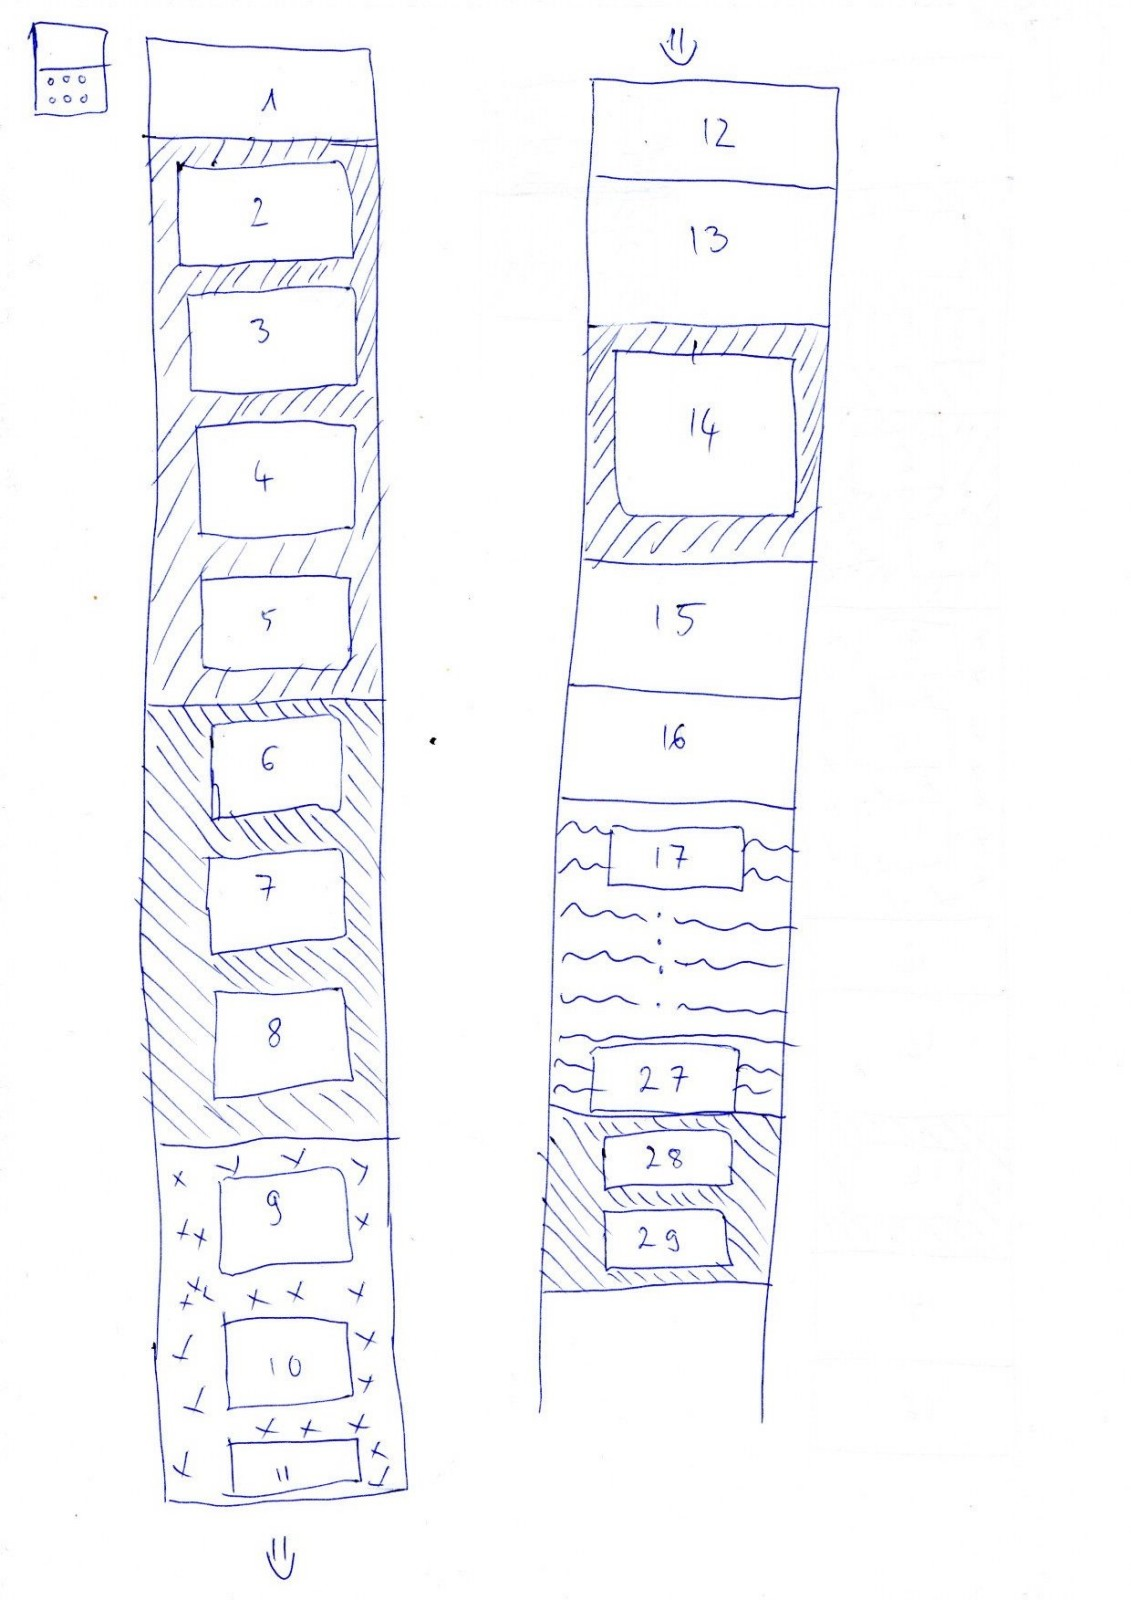
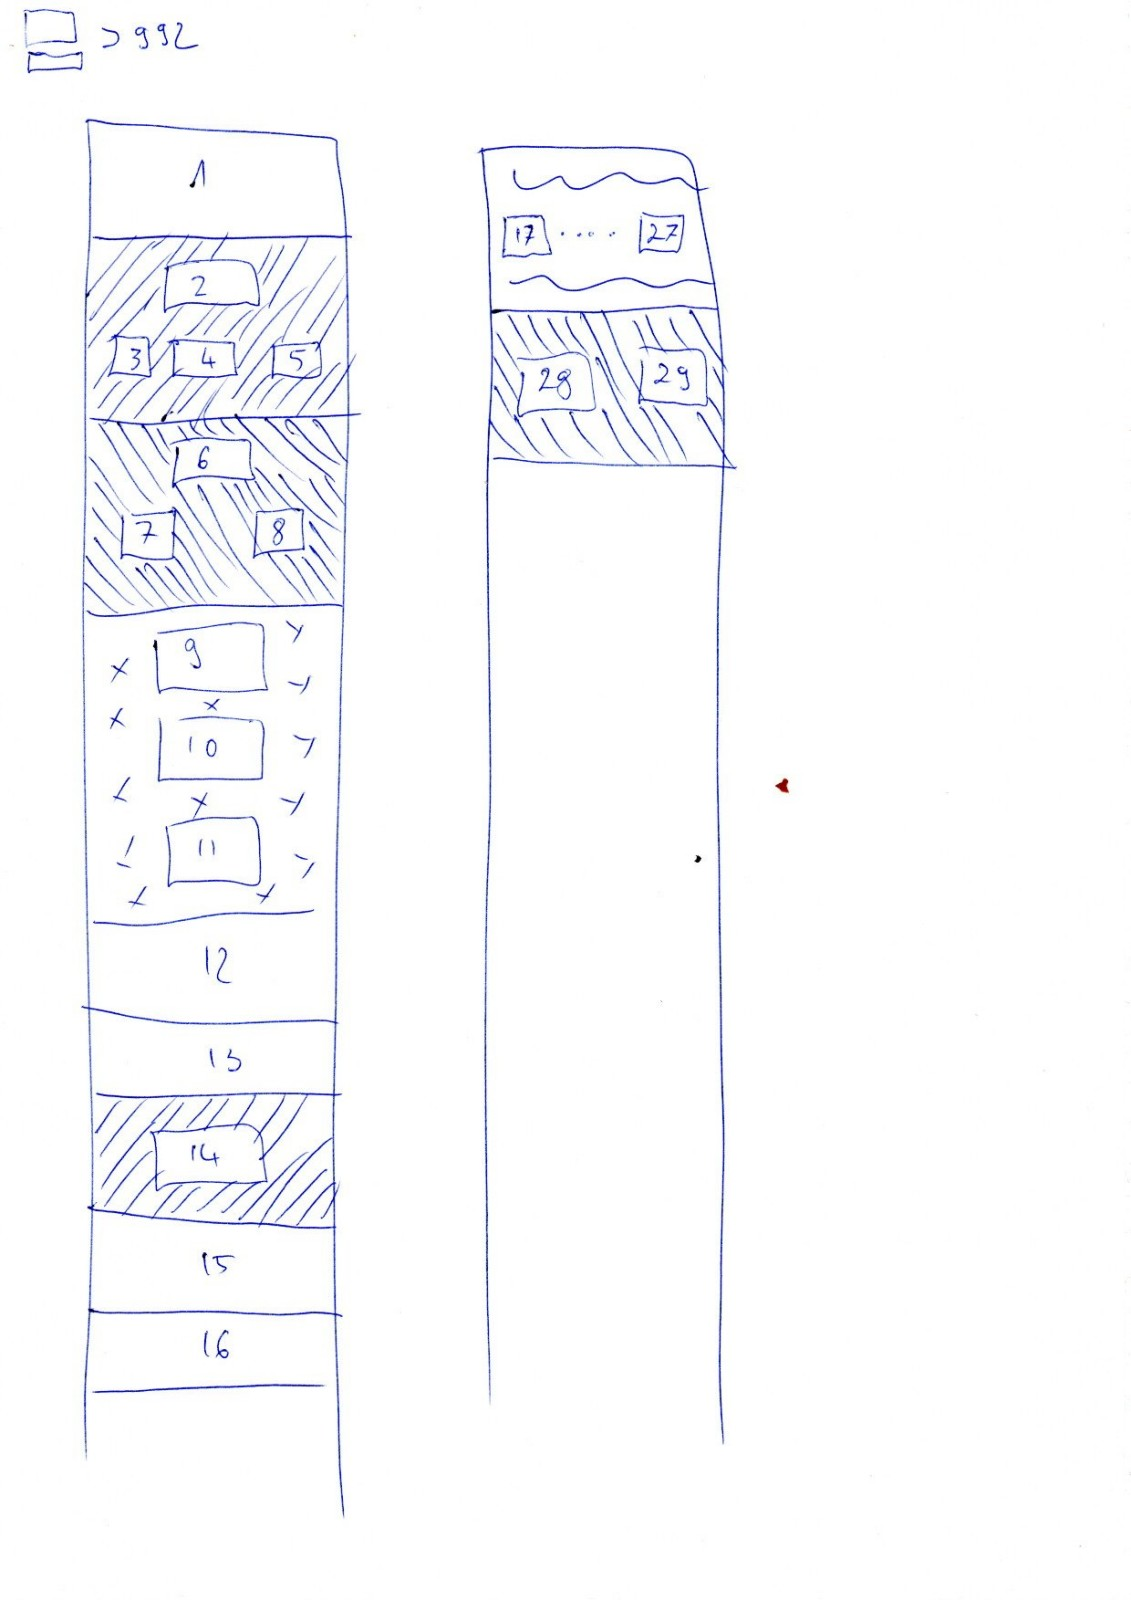
files modified

diff --git a/style.css b/style.css
@@ -9,11 +9,12 @@
 }
 
 .right-stripe div {
-    width: 32%;
+    width: 75%;
+    margin: 0 auto;
 }
 
 .right-stripe .bigger {
-    width: 80%;
+    width: 75%;
     margin: 0 auto;
 }
 
@@ -22,11 +23,12 @@
 }
 
 .left-stripe div {
-    width: 49%;
-} 
+    width: 75%;
+    margin: 0 auto;
+}
 
 .left-stripe .bigger {
-    width: 52%;
+    width: 75%;
     margin: 0 auto;
 }
 
@@ -35,7 +37,8 @@
 }
 
 .star div {
-    width: 100%;
+    width: 75%;
+    margin: 0 auto;
 }
 
 .wave {
@@ -43,20 +46,21 @@
 }
 
 .wave div {
-    width: 15%;
+    width: 75%;
+    margin: 0 auto;
 }
 
 .right-stripe div,
 .left-stripe div,
 .star div,
 .wave div {
-    height: 100px;
+    height: 14em;
     margin: 10px auto;
 }
 
 .empty {
     width: 100%;
-    height: 15em;
+    height: 14em;
     margin: 0;
 }
 
@@ -75,28 +79,45 @@ div {
     background-color: white;
 }
 
-@media screen and (min-width: 768px){
+@media screen and (min-width: 768px) {
+    .right-stripe div {
+        width: 32%;
+    }
+
+    .right-stripe .bigger {
+        width: 75%;
+        margin: 0 auto;
+    }
+
+    .left-stripe {
+        width: 100%;
+    }
+
+    .left-stripe div{
+        width: 49%;
+    }
+
+    .left-stripe .bigger {
+        width: 52%;
+        margin: 0 auto;
+    }
+
     .wave div {
-        width: 8%;
-        height: 100px;
-        margin: 10px 0;
+        width: 15%;
     }
 }
 
 @media screen and (min-width: 992px) {
-    section {
+    .left-stripe {
         width: 100%;
-        padding: 20px;
-        display: flex;
-        flex-direction: column;
-    } 
+    }
 
-    .right-stripe div,
-    .left-stripe div,
-    .right-stripe .bigger,
-    .left-stripe .bigger,
+    .left-stripe div {
+        width: 49%;
+    }
+
     .wave div {
-        width: 100%;
-        margin: 10px auto;
+        width: 8%;
+        margin: 10px 0;
     }
 }
